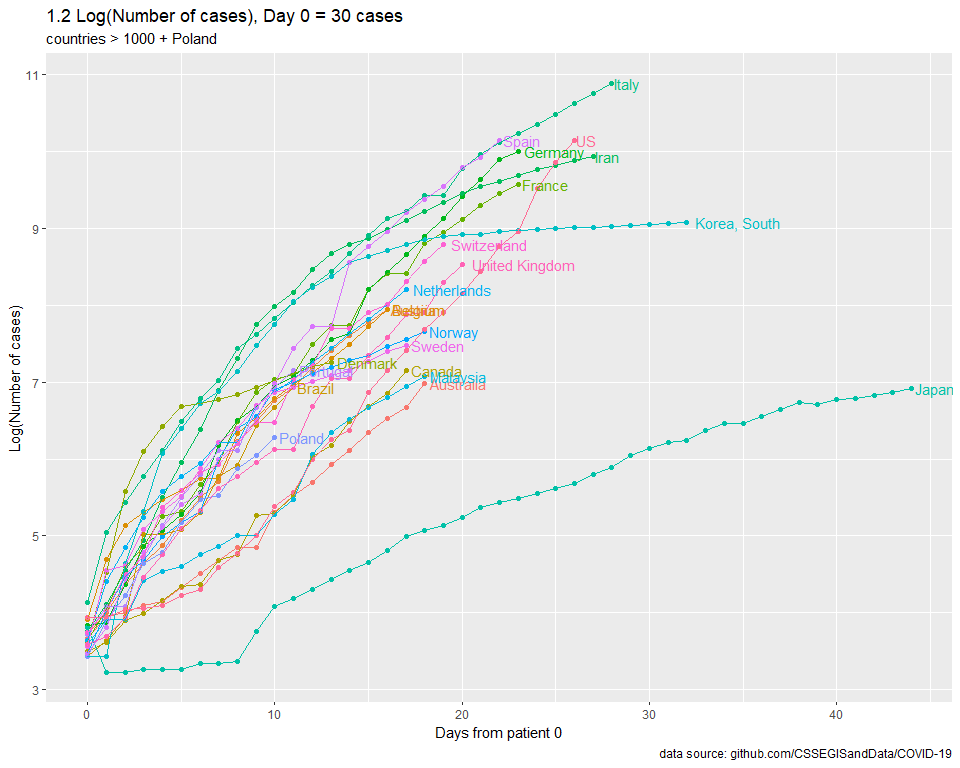
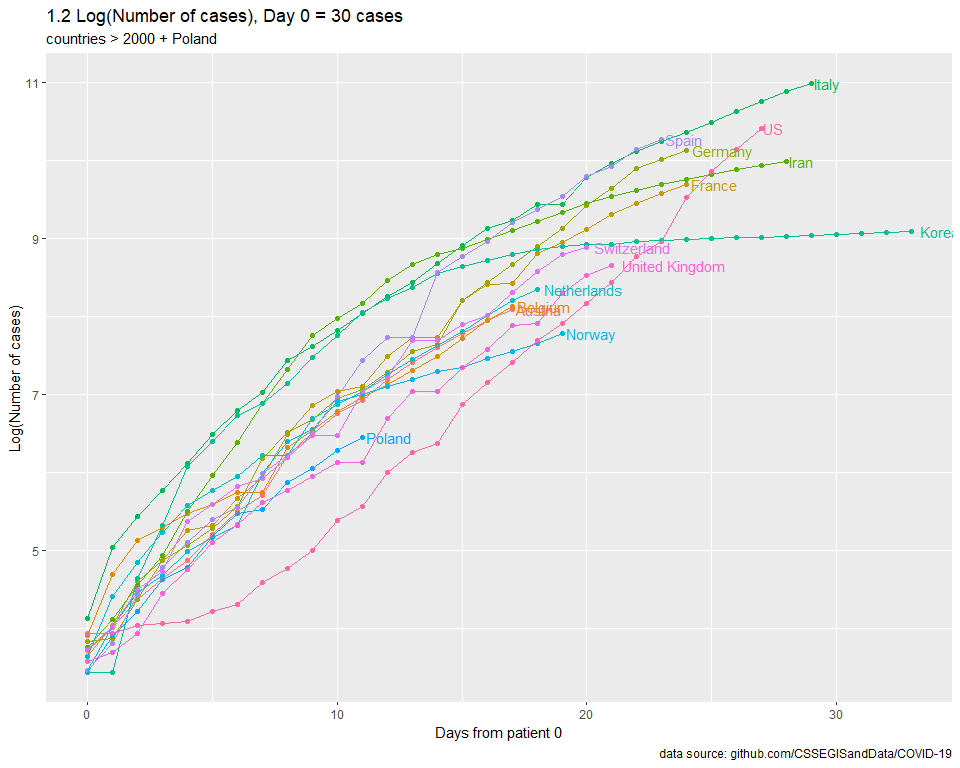
data update 23.03

diff --git a/main.md b/main.md
@@ -7,8 +7,8 @@ MK
 
 ``` r
 url_conf <- "https://raw.githubusercontent.com/CSSEGISandData/COVID-19/master/csse_covid_19_data/csse_covid_19_time_series/time_series_19-covid-Confirmed.csv"
-MIN_DATE <- "2020-03-10"
-TODAY    <- "2020-03-21"
+MIN_DATE <- "2020-03-13"
+TODAY    <- "2020-03-22"
 TAKE_LOG <- TRUE
 ```
 
